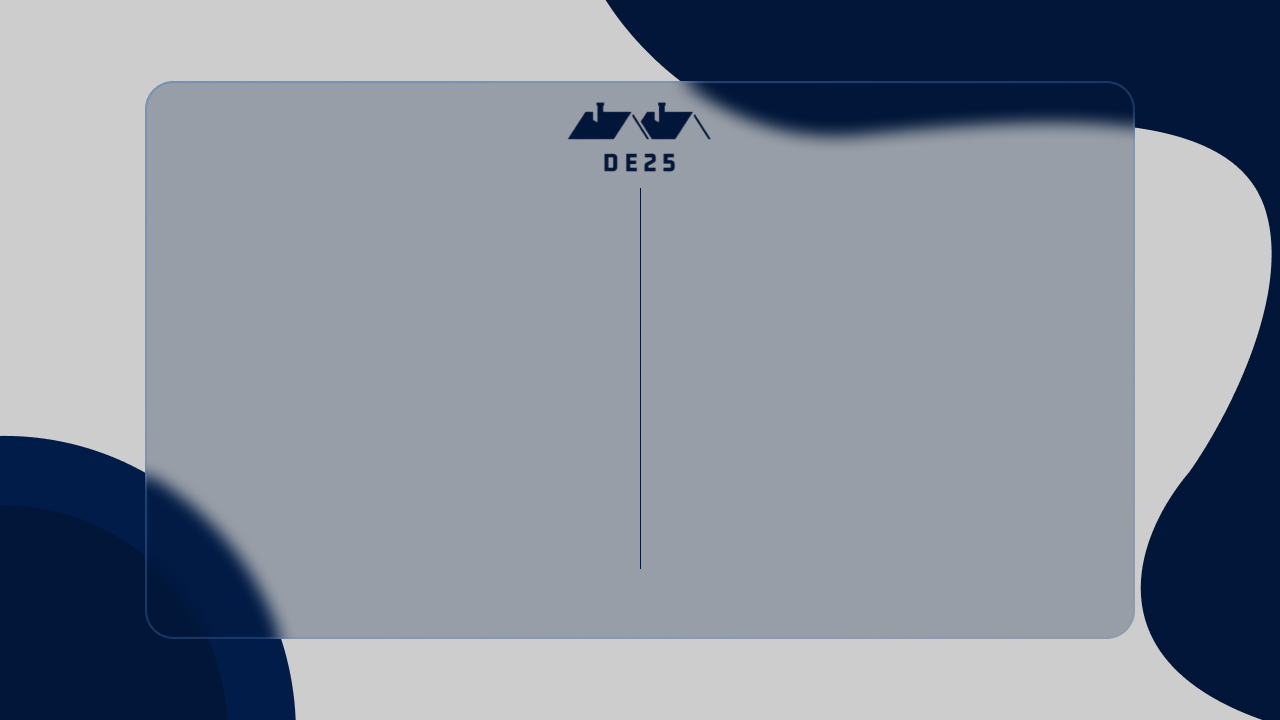
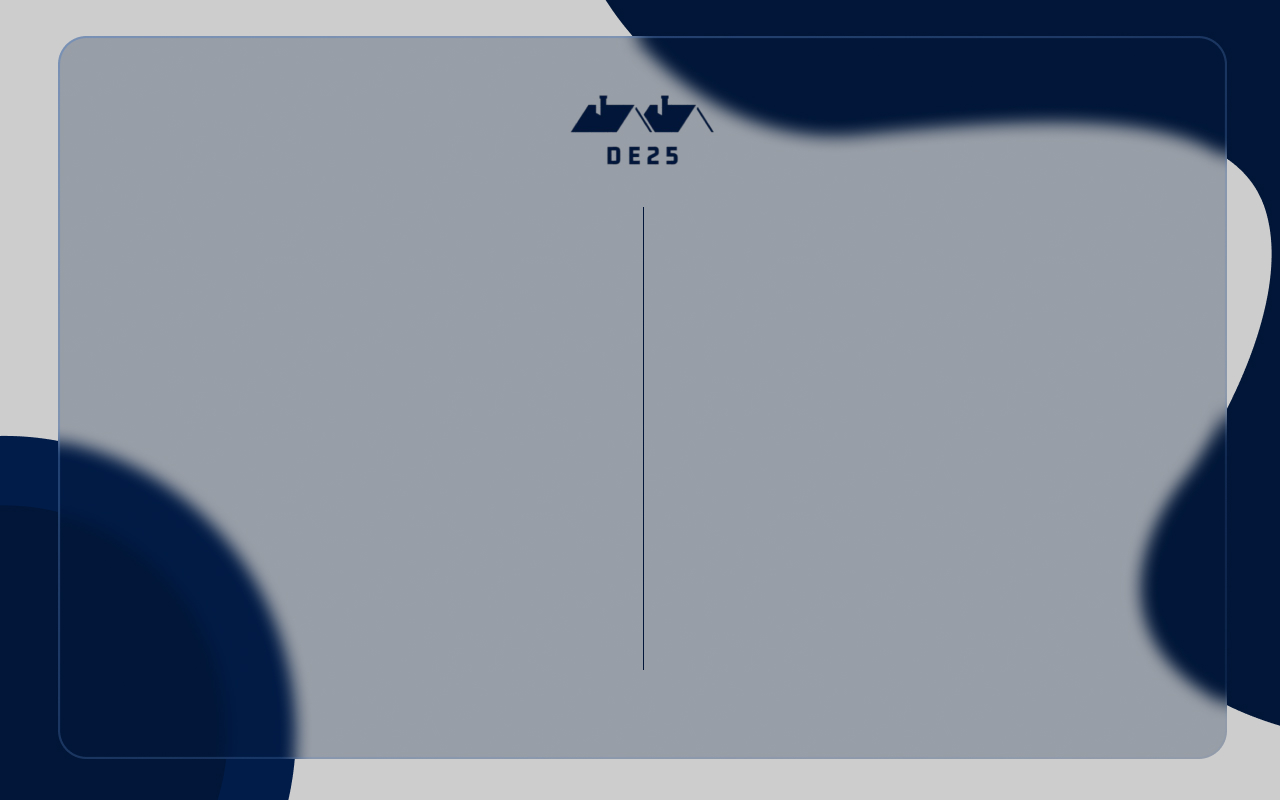
Aggiornato il frontend

Changed region(s): [[0.0, 0.0306, 1.0, 1.0], [0.2188, 0.9778, 0.25, 1.0]]

diff --git a/ProveCodiceProgetto/ProvaProgettoV2/ProvaV2(FrontEnd)/src/main/java/com/example/prova2/Controller/HelloController.java b/ProveCodiceProgetto/ProvaProgettoV2/ProvaV2(FrontEnd)/src/main/java/com/example/prova2/Controller/HelloController.java
@@ -2,17 +2,21 @@ package com.example.prova2.Controller;
 
 import com.example.prova2.Model.User;
 import com.example.prova2.requester.Requester;
+import javafx.animation.FadeTransition;
+import javafx.animation.TranslateTransition;
 import javafx.fxml.FXML;
+import javafx.fxml.FXMLLoader;
+import javafx.scene.Parent;
+import javafx.scene.Scene;
 import javafx.scene.control.Label;
 import javafx.scene.control.PasswordField;
 import javafx.scene.control.TextField;
 import javafx.scene.control.Alert;
 import javafx.scene.control.Alert.AlertType;
-import java.net.http.HttpClient;
+import javafx.stage.Stage;
+import javafx.util.Duration;
 import java.io.IOException;
-import java.net.URI;
-import java.net.http.HttpRequest;
-import java.net.http.HttpResponse;
+
 
 
 public class HelloController {
@@ -28,6 +32,38 @@ public class HelloController {
 
     @FXML
     private Label passwordErrorLabel;
+
+    @FXML
+    private void handleButtonAgente() throws IOException, InterruptedException {
+        // Carica il nuovo file FXML
+        FXMLLoader loader = new FXMLLoader(getClass().getResource("/com/example/prova2/ProvaLoginAgente.fxml"));
+        Parent root = loader.load();
+
+// Ottieni lo stage attuale dalla scena corrente
+        Stage currentStage = (Stage) emailField.getScene().getWindow();
+
+// Crea la transizione Fade Out (fade verso trasparente)
+        FadeTransition fadeOut = new FadeTransition(Duration.seconds(0.3), currentStage.getScene().getRoot());
+        fadeOut.setFromValue(1.0);  // Partenza completamente visibile
+        fadeOut.setToValue(0.0);    // Fine completamente trasparente
+        fadeOut.setOnFinished(event -> {
+            // Cambia la scena al termine del fade out
+            Scene newScene = new Scene(root, 1280, 800);
+            currentStage.setScene(newScene);
+            currentStage.setTitle("Agente Immobiliare Dashboard");
+
+            // Crea la transizione Fade In (ripristina visibilità)
+            FadeTransition fadeIn = new FadeTransition(Duration.seconds(1), root);
+            fadeIn.setFromValue(0.0);  // Partenza trasparente
+            fadeIn.setToValue(1.0);    // Fine completamente visibile
+            fadeIn.play();
+        });
+
+// Avvia la transizione di Fade Out
+        fadeOut.play();
+
+    }
+
 
 
     @FXML

diff --git a/ProveCodiceProgetto/ProvaProgettoV2/ProvaV2(FrontEnd)/src/main/java/com/example/prova2/View/HomePageLogin.java b/ProveCodiceProgetto/ProvaProgettoV2/ProvaV2(FrontEnd)/src/main/java/com/example/prova2/View/HomePageLogin.java
@@ -2,6 +2,7 @@ package com.example.prova2.View;
 
 import javafx.application.Application;
 import javafx.fxml.FXMLLoader;
+import javafx.scene.Parent;
 import javafx.scene.Scene;
 import javafx.stage.Stage;
 
@@ -11,11 +12,13 @@ public class HomePageLogin extends Application {
     @Override
     public void start(Stage stage) throws IOException {
         FXMLLoader fxmlLoader = new FXMLLoader(HomePageLogin.class.getResource("/com/example/prova2/Prova2.fxml"));
-        Scene scene = new Scene(fxmlLoader.load(), 1800, 800);
+        Scene scene = new Scene(fxmlLoader.load(), 1280, 800);
         stage.setTitle("Hello!");
         stage.setScene(scene);
         stage.show();
     }
+
+
 
     public static void main(String[] args) {
         launch();

diff --git a/ProveCodiceProgetto/ProvaProgettoV2/ProvaV2(FrontEnd)/src/main/java/module-info.java b/ProveCodiceProgetto/ProvaProgettoV2/ProvaV2(FrontEnd)/src/main/java/module-info.java
@@ -1,9 +1,9 @@
 module com.example.prova2.View {
     requires javafx.controls;
     requires javafx.fxml;
-    requires java.desktop;
     requires java.sql;
     requires java.net.http;
+    requires javafx.graphics;
 
 
     opens com.example.prova2.View to javafx.fxml;
